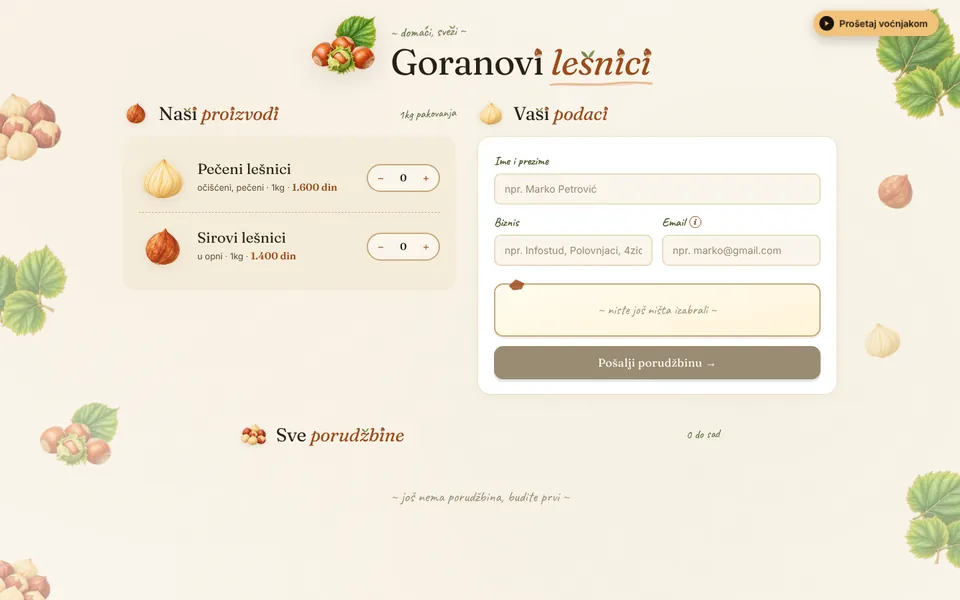
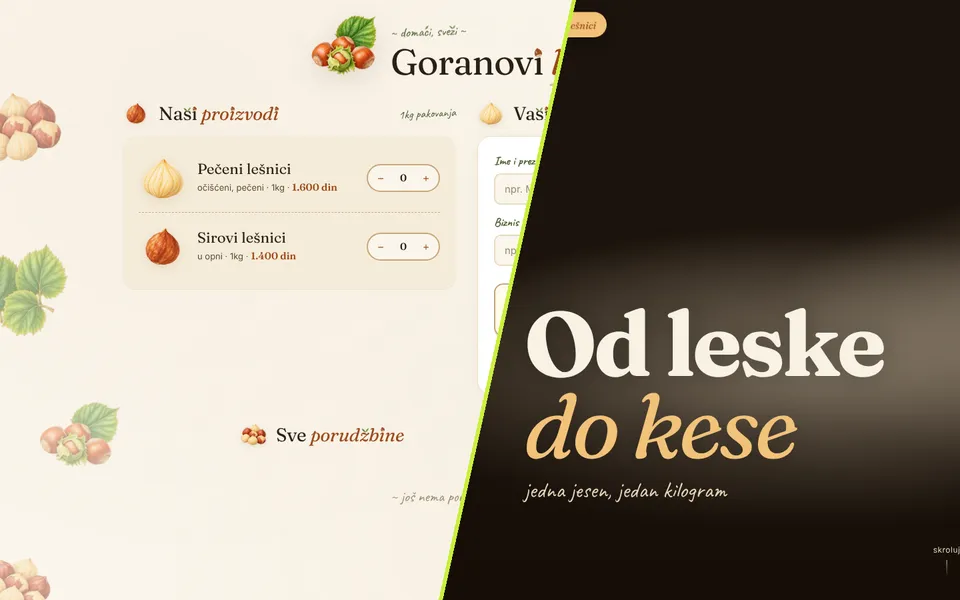
Add files via upload

diff --git a/goran/index.html b/goran/index.html
@@ -104,11 +104,10 @@ a.status{color:var(--lime);text-underline-offset:3px;text-decoration-color:rgba(
 
 .stack{display:flex;flex-wrap:wrap;gap:8px 22px;margin:0;padding:0;list-style:none;font-weight:700;font-variation-settings:"wdth" 108;font-size:1.0625rem;color:#C9DCCF}
 
-.outro{margin-top:clamp(72px,10vh,120px);padding:32px;border-radius:22px;background:var(--lime);color:var(--bg-deep)}
-.outro p{margin:0 0 18px;font-weight:700;font-size:clamp(1.25rem,2vw,1.6rem);line-height:1.25;max-width:26ch}
-.outro a{font-weight:800;font-variation-settings:"wdth" 112;font-size:clamp(1.05rem,2.2vw,1.5rem);text-decoration:underline;text-underline-offset:5px;text-decoration-thickness:2px;overflow-wrap:anywhere}
-.outro a:focus-visible{outline-color:var(--bg-deep)}
 footer{margin-top:40px;color:var(--muted);font-size:.875rem}
+
+.toast{position:fixed;left:50%;bottom:24px;z-index:30;transform:translate(-50%,20px);opacity:0;pointer-events:none;background:var(--lime);color:var(--bg-deep);font-weight:700;font-size:.9375rem;padding:12px 18px;border-radius:12px;box-shadow:0 10px 30px rgba(0,0,0,.35);transition:opacity .25s, transform .25s;max-width:calc(100% - 32px);text-align:center}
+.toast.on{opacity:1;transform:translate(-50%,0)}
 
 @media (max-width: 1180px){
   .project{grid-template-columns:1fr;gap:16px}
@@ -122,7 +121,6 @@ footer{margin-top:40px;color:var(--muted);font-size:.875rem}
 }
 @media (max-width: 480px){
   .job{grid-template-columns:1fr;padding:20px}
-  .outro{padding:24px}
 }
 @media (prefers-reduced-motion: reduce){*{transition:none !important}}
 </style>
@@ -145,7 +143,7 @@ footer{margin-top:40px;color:var(--muted);font-size:.875rem}
       <p class="role">Sales Professional | AI Product Builder &amp; Automation Specialist</p>
       <p class="place" data-i18n="place">Subotica, Srbija</p>
       <div class="links">
-        <a class="btn btn--main" href="mailto:bilic.goran7@gmail.com">
+        <a class="btn btn--main" id="mailBtn" href="mailto:bilic.goran7@gmail.com">
           <svg viewBox="0 0 24 24" fill="none" stroke="currentColor" stroke-width="2" stroke-linecap="round" stroke-linejoin="round" aria-hidden="true"><rect x="3" y="5" width="18" height="14" rx="2"/><path d="m3 7 9 6 9-6"/></svg>
           <span data-i18n="email">Pošalji mejl</span>
         </a>
@@ -192,19 +190,17 @@ footer{margin-top:40px;color:var(--muted);font-size:.875rem}
         <h2 id="stack-title" data-i18n="stackTitle">Alati s kojima radim</h2>
         <ul class="stack">
           <li>Claude</li><li>GitHub</li><li>Vercel</li><li>Google Apps Script</li><li>Google Sheets</li>
-          <li>Supabase</li><li>Next.js</li><li>GSAP</li><li>Playwright</li><li>ffmpeg</li><li>CapCut</li>
+          <li>Supabase</li><li>Next.js</li><li>GSAP</li><li>Canva</li><li>Playwright</li><li>ffmpeg</li><li>CapCut</li>
         </ul>
       </section>
 
-      <div class="outro">
-        <p data-i18n="outro">Imaš ideju za sajt ili alat koji bi ti uštedeo vreme? Piši mi.</p>
-        <a href="mailto:bilic.goran7@gmail.com">bilic.goran7@gmail.com</a>
-      </div>
 
       <footer>© <span id="year">2026</span> Goran Bilić</footer>
     </div>
   </main>
 </div>
+
+<div class="toast" id="toast" role="status" aria-live="polite"></div>
 
 <script>
 /* ============================================================
@@ -223,11 +219,11 @@ const PROJECTS = [
   },
   {
     name: "Goranovi lešnici", url: "https://lesnici-sajt.vercel.app", img: "lesnici.webp",
-    sr: "Sajt na kome kolege naručuju pečene i sirove lešnike, sa admin panelom za mene.",
-    en: "A site where colleagues order roasted and raw hazelnuts, with an admin panel for me.",
-    f_sr: ["Izbor proizvoda i količine u par klikova", "Porudžbine se same upisuju u Google Sheet", "Automatska potvrda kupcu i obaveštenje meni mejlom", "Admin panel za praćenje uplata i preuzimanja"],
-    f_en: ["Pick products and quantities in a few clicks", "Orders are written to a Google Sheet automatically", "Automatic email confirmation to the buyer and a notification to me", "Admin panel to track payments and pickups"],
-    tags: ["Google Apps Script", "Google Sheets", "Vercel"]
+    sr: "Sajt na kome kolege naručuju pečene i sirove lešnike, sa animiranom pričom „Od leske do kese” i admin panelom za mene.",
+    en: "A site where colleagues order roasted and raw hazelnuts, with an animated story, “From orchard to bag”, and an admin panel for me.",
+    f_sr: ["Izbor proizvoda i količine u par klikova", "Porudžbine se same upisuju u Google Sheet", "Automatska potvrda kupcu i obaveštenje meni mejlom", "Admin panel za praćenje uplata i preuzimanja", "„Od leske do kese”: priča o lešniku koja se odvija dok skroluješ i vodi pravo na poručivanje"],
+    f_en: ["Pick products and quantities in a few clicks", "Orders are written to a Google Sheet automatically", "Automatic email confirmation to the buyer and a notification to me", "Admin panel to track payments and pickups", "“From orchard to bag”: a hazelnut's story that unfolds as you scroll and leads straight to ordering"],
+    tags: ["Google Apps Script", "Google Sheets", "GSAP", "Vercel"]
   },
   {
     name: "FC27 Liga", url: "https://inspira-fc27liga.vercel.app", img: "fc27.webp",
@@ -271,19 +267,11 @@ const PROJECTS = [
   },
   {
     name: "Mozgalice", url: "", img: "mozgalice.webp",
-    sr: "Igre za mozak u stilu LinkedIn zagonetki.",
-    en: "Brain games in the style of LinkedIn puzzles.",
-    f_sr: ["Spajalica i Blokovi, plus kraljice, tango, mini sudoku i nonogram", "Nivoi težine", "Tajmer i bodovanje prema vremenu"],
-    f_en: ["Spajalica and Blokovi, plus queens, tango, mini sudoku and nonogram", "Difficulty levels", "Timer and time-based scoring"],
+    sr: "Šest logičkih igara u stilu LinkedIn zagonetki, po 15 nivoa u svakoj.",
+    en: "Six logic games in the style of LinkedIn puzzles, with 15 levels each.",
+    f_sr: ["Spajalica, Blokovi, Kraljice, Sunce i Mesec, Sudoku i Slikovnica", "90 nivoa koji postaju sve teži", "Tajmer, bodovi i do tri zvezdice po nivou", "Pomoć kad zapneš, uz kaznu u bodovima"],
+    f_en: ["Spajalica, Blokovi, Queens, Sun and Moon, Sudoku and a picture puzzle", "90 levels that get harder as you go", "Timer, points and up to three stars per level", "Hints when you get stuck, at a points cost"],
     tags: ["JavaScript"]
-  },
-  {
-    name: "Od leske do kese", name_en: "From orchard to bag", url: "https://lesnici-sajt.vercel.app/prica", img: "prica.webp",
-    sr: "Animirani sajt koji skrolovanjem priča put lešnika od voćnjaka do kese.",
-    en: "An animated site that tells a hazelnut's journey from orchard to bag as you scroll.",
-    f_sr: ["Priča koja se odvija dok skroluješ", "Animacije vezane za skrol", "Na kraju vodi pravo na poručivanje"],
-    f_en: ["A story that unfolds as you scroll", "Scroll-driven animations", "Ends with a direct path to ordering"],
-    tags: ["JavaScript", "GSAP"]
   },
   {
     name: "Mundijal 2026 – kilometraža", name_en: "World Cup 2026 – travel distances", url: "https://16erac.com/mundijal", img: "mundijal.webp",
@@ -315,11 +303,11 @@ const T = {
     when: "Oktobar 2021 – danas",
     jobText: "Savetujem poslovne klijente kako da izvuku najviše iz oglašavanja na 4zida.rs, portalu za nekretnine u okviru Inspira grupe. Pored prodaje, za svoj tim pravim interne alate koji štede vreme, od raspodele poziva do automatskog popunjavanja ugovora.",
     stackTitle: "Alati s kojima radim",
-    outro: "Imaš ideju za sajt ili alat koji bi ti uštedeo vreme? Piši mi.",
     internal: "Interni alat, nije javan",
     prototype: "Interni prototip",
     soon: "Link uskoro",
-    video: "Video sadržaj"
+    video: "Video sadržaj",
+    copied: "Otvaram mejl. Adresa je i kopirana: bilic.goran7@gmail.com"
   },
   en: {
     place: "Subotica, Serbia",
@@ -332,11 +320,11 @@ const T = {
     when: "October 2021 – present",
     jobText: "I advise business clients on getting the most out of advertising on 4zida.rs, the real estate platform within Inspira Group. Alongside sales, I build internal tools that save my team time, from call distribution to automatic contract filling.",
     stackTitle: "Tools I work with",
-    outro: "Have an idea for a site or tool that would save you time? Write to me.",
     internal: "Internal tool, not public",
     prototype: "Internal prototype",
     soon: "Link coming soon",
-    video: "Video content"
+    video: "Video content",
+    copied: "Opening your email app. The address is also copied: bilic.goran7@gmail.com"
   }
 };
 
@@ -391,6 +379,20 @@ function setLang(lang){
   setLang(lang);
   document.querySelectorAll(".lang button").forEach(b => b.addEventListener("click", () => setLang(b.dataset.lang)));
   document.getElementById("year").textContent = new Date().getFullYear();
+})();
+
+/* Dugme za mejl: otvara podrazumevani mejl program, a adresu kopira kao rezervu */
+(function mail(){
+  const btn = document.getElementById("mailBtn"), toast = document.getElementById("toast"), addr = "bilic.goran7@gmail.com";
+  let t;
+  btn.addEventListener("click", e => {
+    e.preventDefault();
+    try { navigator.clipboard && navigator.clipboard.writeText(addr); } catch(err){}
+    const lang = document.documentElement.lang === "en" ? "en" : "sr";
+    toast.textContent = T[lang].copied; toast.classList.add("on");
+    clearTimeout(t); t = setTimeout(() => toast.classList.remove("on"), 4000);
+    window.location.href = "mailto:" + addr;
+  });
 })();
 
 /* Aktivna pozadina: mreža tačaka koja se lagano talasa i zasvetli oko kursora */
